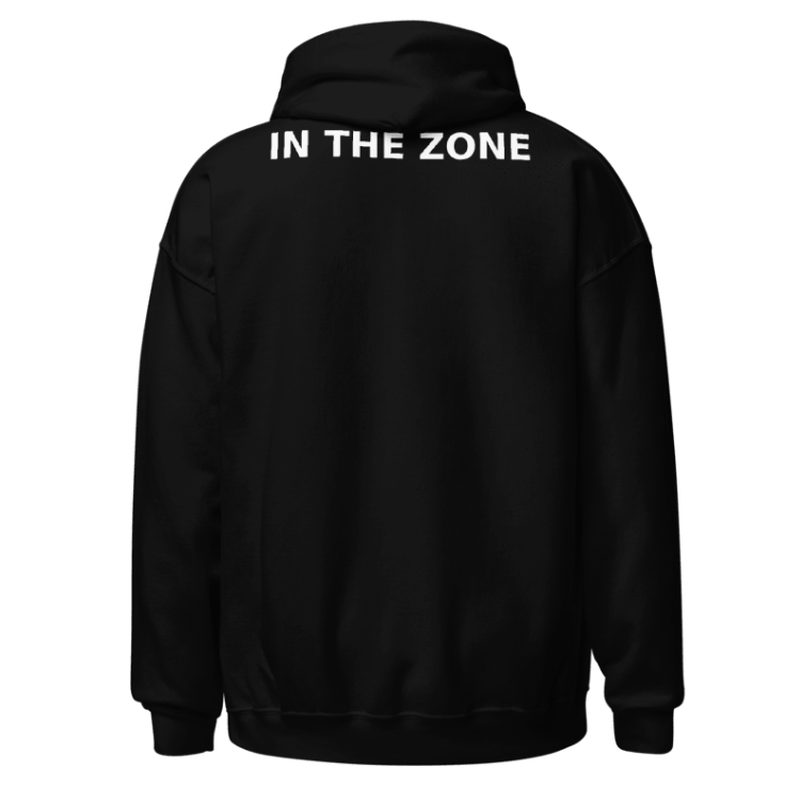
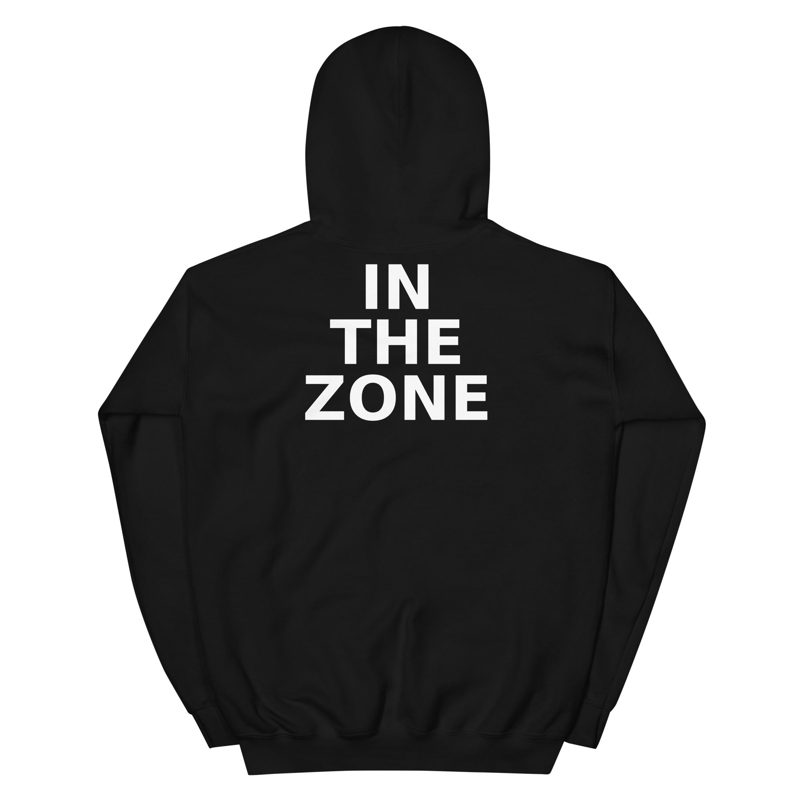
Shop: tees $38, IN THE ZONE back print, stacked hoodie back image

Changed region(s): [[0.125, 0.0, 0.9062, 0.9688], [0.375, 0.3125, 0.625, 0.5312]]

diff --git a/shop.html b/shop.html
@@ -39,15 +39,15 @@
       <article class="gearCard">
         <a href="https://mb0yzf-m0.myshopify.com/products/delta-zone-system-tee" class="gearImg"><img src="./assets/shop/tee.jpg" alt="Delta Zone System Tee in black" loading="lazy" width="800" height="800" /></a>
         <h3>Delta Zone System Tee</h3>
-        <p class="gearDesc">Classic soft cotton tee. Logo center front.</p>
-        <p class="gearPrice">$32</p>
+        <p class="gearDesc">Classic soft cotton tee. Logo front, IN THE ZONE on the back.</p>
+        <p class="gearPrice">$38</p>
         <a class="heroCtaBtn heroCtaPrimary gearBtn" href="https://mb0yzf-m0.myshopify.com/products/delta-zone-system-tee">Shop now</a>
       </article>
       <article class="gearCard">
         <a href="https://mb0yzf-m0.myshopify.com/products/delta-zone-system-athletic-fit-tee" class="gearImg"><img src="./assets/shop/athletic-tee.jpg" alt="Athletic Fit Tee in black" loading="lazy" width="800" height="800" /></a>
         <h3>Athletic Fit Tee</h3>
-        <p class="gearDesc">Next Level fitted cut for training days.</p>
-        <p class="gearPrice">$32</p>
+        <p class="gearDesc">Next Level fitted cut. Logo front, IN THE ZONE on the back.</p>
+        <p class="gearPrice">$38</p>
         <a class="heroCtaBtn heroCtaPrimary gearBtn" href="https://mb0yzf-m0.myshopify.com/products/delta-zone-system-athletic-fit-tee">Shop now</a>
       </article>
       <article class="gearCard">
@@ -60,8 +60,8 @@
       <article class="gearCard">
         <a href="https://mb0yzf-m0.myshopify.com/products/delta-zone-system-womens-relaxed-tee" class="gearImg"><img src="./assets/shop/womens-tee.jpg" alt="Women's Relaxed Tee in black" loading="lazy" width="800" height="800" /></a>
         <h3>Women's Relaxed Tee</h3>
-        <p class="gearDesc">Bella+Canvas relaxed fit. Logo center front.</p>
-        <p class="gearPrice">$32</p>
+        <p class="gearDesc">Bella+Canvas relaxed fit. Logo front, IN THE ZONE on the back.</p>
+        <p class="gearPrice">$38</p>
         <a class="heroCtaBtn heroCtaPrimary gearBtn" href="https://mb0yzf-m0.myshopify.com/products/delta-zone-system-womens-relaxed-tee">Shop now</a>
       </article>
       <article class="gearCard">
@@ -74,7 +74,7 @@
     </div>
     <div class="gearBack">
       <img src="./assets/shop/hoodie-back.jpg" alt="Back of the In The Zone hoodie" loading="lazy" width="800" height="800" />
-      <div><h3>On the back: IN THE ZONE</h3><p class="sectionIntro">The hoodie carries a bold white IN THE ZONE print across the back.</p>
+      <div><h3>On the back: IN THE ZONE</h3><p class="sectionIntro">The hoodie and all three tees carry a bold white stacked IN / THE / ZONE print across the back.</p>
       <a class="heroCtaBtn heroCtaPrimary" href="https://mb0yzf-m0.myshopify.com/products/delta-zone-system-in-the-zone-hoodie">Shop the hoodie – $60</a></div>
     </div>
   </section>

diff --git a/index.html b/index.html
@@ -369,14 +369,14 @@
         <a href="https://mb0yzf-m0.myshopify.com/products/delta-zone-system-tee" class="gearImg"><img src="./assets/shop/tee.jpg" alt="Delta Zone System Tee in black" loading="lazy" width="800" height="800" /></a>
         <h3>Delta Zone System Tee</h3>
         
-        <p class="gearPrice">$32</p>
+        <p class="gearPrice">$38</p>
         <a class="heroCtaBtn heroCtaPrimary gearBtn" href="https://mb0yzf-m0.myshopify.com/products/delta-zone-system-tee">Shop now</a>
       </article>
       <article class="gearCard">
         <a href="https://mb0yzf-m0.myshopify.com/products/delta-zone-system-athletic-fit-tee" class="gearImg"><img src="./assets/shop/athletic-tee.jpg" alt="Athletic Fit Tee in black" loading="lazy" width="800" height="800" /></a>
         <h3>Athletic Fit Tee</h3>
         
-        <p class="gearPrice">$32</p>
+        <p class="gearPrice">$38</p>
         <a class="heroCtaBtn heroCtaPrimary gearBtn" href="https://mb0yzf-m0.myshopify.com/products/delta-zone-system-athletic-fit-tee">Shop now</a>
       </article>
       <article class="gearCard">
@@ -390,7 +390,7 @@
         <a href="https://mb0yzf-m0.myshopify.com/products/delta-zone-system-womens-relaxed-tee" class="gearImg"><img src="./assets/shop/womens-tee.jpg" alt="Women's Relaxed Tee in black" loading="lazy" width="800" height="800" /></a>
         <h3>Women's Relaxed Tee</h3>
         
-        <p class="gearPrice">$32</p>
+        <p class="gearPrice">$38</p>
         <a class="heroCtaBtn heroCtaPrimary gearBtn" href="https://mb0yzf-m0.myshopify.com/products/delta-zone-system-womens-relaxed-tee">Shop now</a>
       </article>
       <article class="gearCard">
